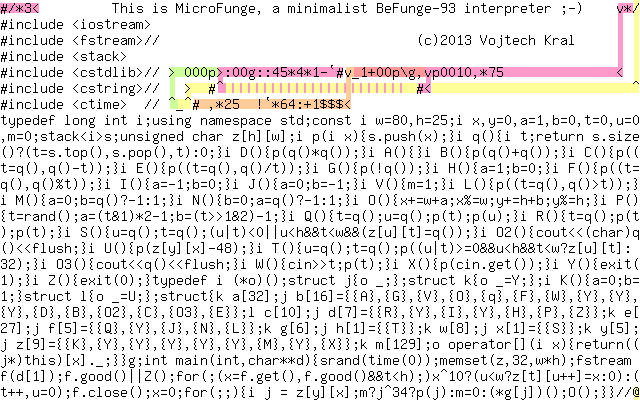
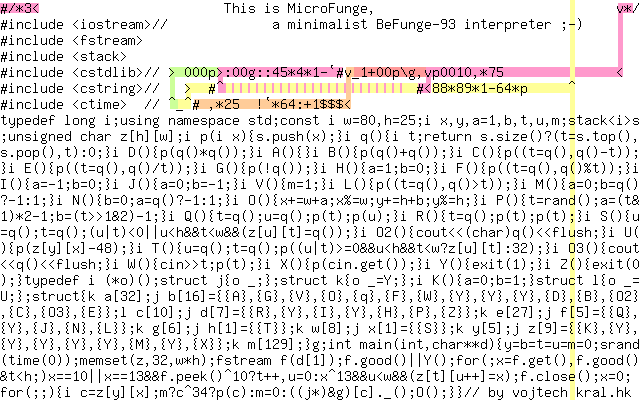
Adding CRLF and CR support

diff --git a/microfunge.cpp b/microfunge.cpp
@@ -1,25 +1,25 @@
-#/*3<         This is MicroFunge, a minimalist BeFunge-93 interpreter ;-)    v*/
-#include <iostream>
-#include <fstream>//                                (c)2013 Vojtech Kral
+#/*3<                       This is MicroFunge,                              v*/
+#include <iostream>//             a minimalist BeFunge-93 interpreter ;-)
+#include <fstream>
 #include <stack>
 #include <cstdlib>// > 000p>:00g::45*4*1-`#v_1+00p\g,vp0010,*75              <
-#include <cstring>//   >  #^                        #<                         ^
+#include <cstring>//   >  #^                        #<88*89*1-64*p     ^
 #include <ctime>  // ^_^# ,*25  !`*64:+1$$$<
-typedef long int i;using namespace std;const i w=80,h=25;i x,y=0,a=1,b=0,t=0,u=0
-,m=0;stack<i>s;unsigned char z[h][w];i p(i x){s.push(x);}i q(){i t;return s.size
-()?(t=s.top(),s.pop(),t):0;}i D(){p(q()*q());}i A(){}i B(){p(q()+q());}i C(){p((
-t=q(),q()-t));}i E(){p((t=q(),q()/t));}i G(){p(!q());}i H(){a=1;b=0;}i F(){p((t=
-q(),q()%t));}i I(){a=-1;b=0;}i J(){a=0;b=-1;}i V(){m=1;}i L(){p((t=q(),q()>t));}
-i M(){a=0;b=q()?-1:1;}i N(){b=0;a=q()?-1:1;}i O(){x+=w+a;x%=w;y+=h+b;y%=h;}i P()
-{t=rand();a=(t&1)*2-1;b=(t>>1&2)-1;}i Q(){t=q();u=q();p(t);p(u);}i R(){t=q();p(t
-);p(t);}i S(){u=q();t=q();(u|t)<0||u<h&&t<w&&(z[u][t]=q());}i O2(){cout<<(char)q
-()<<flush;}i U(){p(z[y][x]-48);}i T(){u=q();t=q();p((u|t)>=0&&u<h&&t<w?z[u][t]:
-32);}i O3(){cout<<q()<<flush;}i W(){cin>>t;p(t);}i X(){p(cin.get());}i Y(){exit(
-1);}i Z(){exit(0);}typedef i (*o)();struct j{o _;};struct k{o _=Y;};i K(){a=0;b=
-1;}struct l{o _=U;};struct{k a[32];j b[16]={{A},{G},{V},{O},{q},{F},{W},{Y},{Y},
-{Y},{D},{B},{O2},{C},{O3},{E}};l c[10];j d[7]={{R},{Y},{I},{Y},{H},{P},{Z}};k e[
-27];j f[5]={{Q},{Y},{J},{N},{L}};k g[6];j h[1]={{T}};k w[8];j x[1]={{S}};k y[5];
-j z[9]={{K},{Y},{Y},{Y},{Y},{Y},{M},{Y},{X}};k m[129];o operator[](i x){return((
-j*)this)[x]._;}}g;int main(int,char**d){srand(time(0));memset(z,32,w*h);fstream
-f(d[1]);f.good()||Y();for(;(x=f.get(),f.good()&&t<h);)x^10?(u<w?z[t][u++]=x:0):(
-t++,u=0);f.close();x=0;for(;;){i j = z[y][x];m?j^34?p(j):m=0:(*g[j])();O();}}//@
+typedef long i;using namespace std;const i w=80,h=25;i x,y,a=1,b,t,u,m;stack<i>s
+;unsigned char z[h][w];i p(i x){s.push(x);}i q(){i t;return s.size()?(t=s.top(),
+s.pop(),t):0;}i D(){p(q()*q());}i A(){}i B(){p(q()+q());}i C(){p((t=q(),q()-t));
+}i E(){p((t=q(),q()/t));}i G(){p(!q());}i H(){a=1;b=0;}i F(){p((t=q(),q()%t));}i
+I(){a=-1;b=0;}i J(){a=0;b=-1;}i V(){m=1;}i L(){p((t=q(),q()>t));}i M(){a=0;b=q()
+?-1:1;}i N(){b=0;a=q()?-1:1;}i O(){x+=w+a;x%=w;y+=h+b;y%=h;}i P(){t=rand();a=(t&
+1)*2-1;b=(t>>1&2)-1;}i Q(){t=q();u=q();p(t);p(u);}i R(){t=q();p(t);p(t);}i S(){u
+=q();t=q();(u|t)<0||u<h&&t<w&&(z[u][t]=q());}i O2(){cout<<(char)q()<<flush;}i U(
+){p(z[y][x]-48);}i T(){u=q();t=q();p((u|t)>=0&&u<h&&t<w?z[u][t]:32);}i O3(){cout
+<<q()<<flush;}i W(){cin>>t;p(t);}i X(){p(cin.get());}i Y(){exit(1);}i Z(){exit(0
+);}typedef i (*o)();struct j{o _;};struct k{o _=Y;};i K(){a=0;b=1;}struct l{o _=
+U;};struct{k a[32];j b[16]={{A},{G},{V},{O},{q},{F},{W},{Y},{Y},{Y},{D},{B},{O2}
+,{C},{O3},{E}};l c[10];j d[7]={{R},{Y},{I},{Y},{H},{P},{Z}};k e[27];j f[5]={{Q},
+{Y},{J},{N},{L}};k g[6];j h[1]={{T}};k w[8];j x[1]={{S}};k y[5];j z[9]={{K},{Y},
+{Y},{Y},{Y},{Y},{M},{Y},{X}};k m[129];}g;int main(int,char**d){y=b=t=u=m=0;srand
+(time(0));memset(z,32,w*h);fstream f(d[1]);f.good()||Y();for(;x=f.get(),f.good()
+&t<h;)x==10||x==13&&f.peek()^10?t++,u=0:x^13&&u<w&&(z[t][u++]=x);f.close();x=0;
+for(;;){i c=z[y][x];m?c^34?p(c):m=0:((j*)&g)[c]._();O();}}// by vojtech kral.hk

diff --git a/microfunge.readable.cpp b/microfunge.readable.cpp
@@ -5,11 +5,11 @@
 #include <cstring>
 #include <ctime>
 
-typedef long int i;
+typedef long i;
 
 using namespace std;
 
-i x, y=0, a=1, b=0, t=0, u=0, m=0;
+i x, y, a=1, b, t, u, m;
 const i w=80, h=25;
 stack<i> s;
 
@@ -81,15 +81,11 @@ struct Op_All
 	SOp_Bad y[5];  // 117
 	SOp z[9] = { {op_down}, {op_bad}, {op_bad}, {op_bad}, {op_bad}, {op_bad}, {op_if_vert}, {op_bad}, {op_in_c} };  // 126
 	SOp_Bad m[129];  // 255
-
-	Op operator [] (i x)
-	{
-		return ((SOp*)this)[x].op;
-	}
 } op_all;
 
 int main(int, char**d)
 {
+	y=b=t=u=m=0;
 	srand(time(0));
 	memset(z, 32, w*h);
 
@@ -98,12 +94,11 @@ int main(int, char**d)
 
 	for(;(x = f.get(), f.good() && t < h);)
 	{
-		if (x == '\n')
+		if (x == '\n' || (x == '\r' && f.peek() != '\n'))
 		{
-			t++;
-			u = 0;
+			t++; u = 0;
 		}
-		else
+		else if (x != '\r')
 		{
 			if (u < w) z[t][u++] = x;
 		}
@@ -114,15 +109,15 @@ int main(int, char**d)
 	x=0;
 	for(;;)
 	{
-		i j = z[y][x];
+		i c = z[y][x];
 
 		if (m)
 		{
-			if (j != 34) p(j);
+			if (c != 34) p(c);
 			else m = 0;
 		} else
 		{
-			(*op_all[j])();
+			((SOp*)&op_all)[c].op();
 		}
 
 		op_trampoline();

diff --git a/readme.md b/readme.md
@@ -8,8 +8,9 @@ I wrote it just for fun, to see if I could stuff a BeFunge interpreter in a 25x8
 While being a C++ source, the microfunge.cpp file is also a fully working BeFunge-93 quine program.
 
 Even though it's minimalist, it should be reasonably fast and standard-compliant.
+Works with LF, CRLF and CR line endings.
 
 MicroFunge requires a fairly recent C++ compiler - some C++11 features are used.
 
-I am not certain the code compiles well and all platforms, there may be a structure
+I am not certain the code compiles well on all platforms, there may be a structure
 padding problem.
